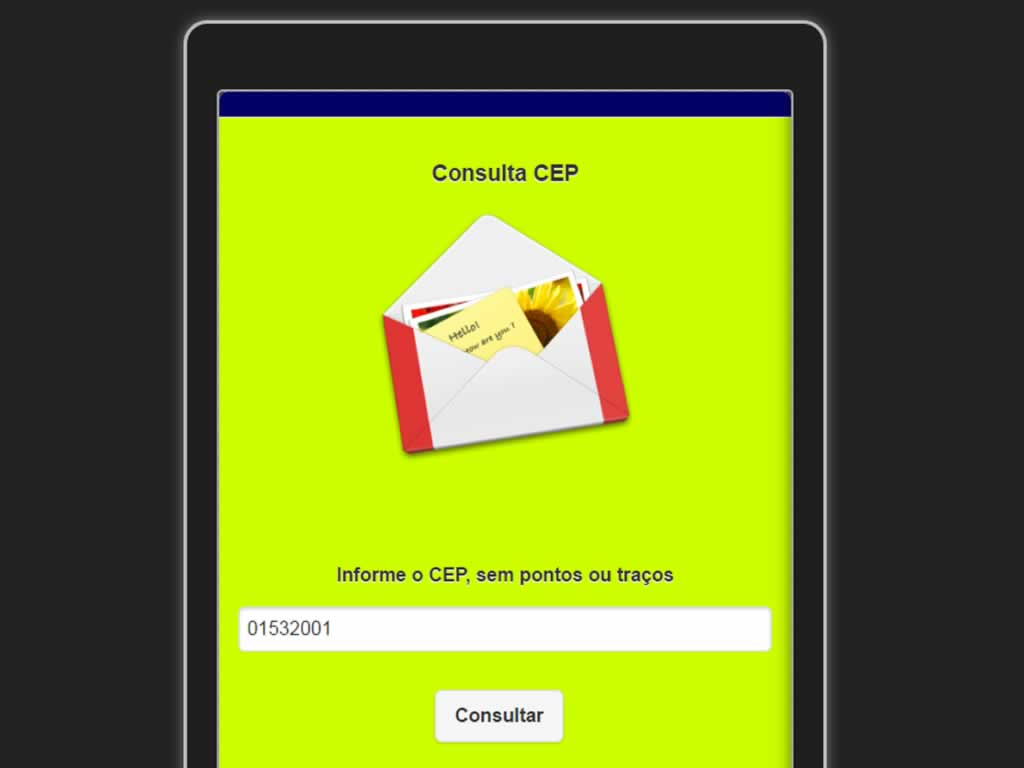
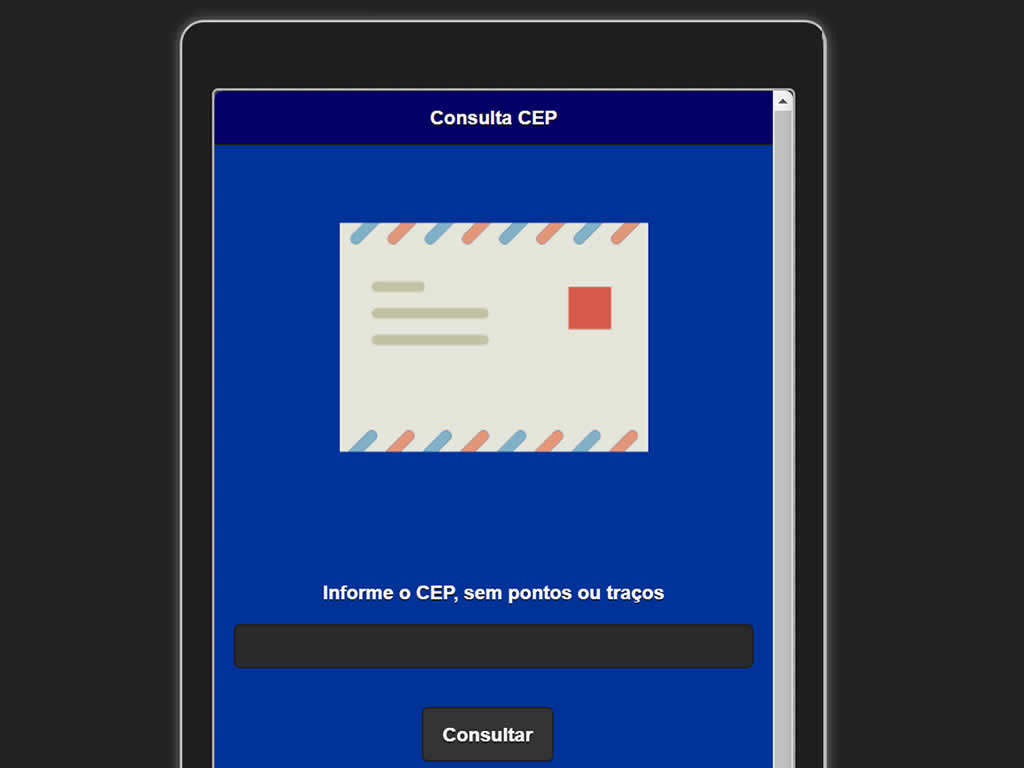
2019-01-27

diff --git a/www/index.html b/www/index.html
@@ -6,7 +6,7 @@
 		<link rel="stylesheet" href="css/jquery.mobile-1.4.2.min.css">
 		<title>Consulta CEP</title>
 		<style type="text/css">
-			.ui-page .ui-content { background-color:#CCFF00; }
+			.ui-page .ui-content { background-color:#003399; }
 			.ui-page .ui-header { background-color:#000066; }
 			.ui-page .ui-footer { background-color:#000066; color:#FFFFFF; }
 			.ui-footer {
@@ -18,15 +18,15 @@
     </head>
     <body>
         <div id="app">
-            <div data-role="page" id="pageone">
-			  <div data-role="header" data-position="fixed"  class="cabecalho">
-				&nbsp;
+            <div data-role="page" id="pageone" data-theme="b">
+			   <div data-role="header" data-position="fixed"  class="cabecalho">
+				<h1>Consulta CEP</h1>
 			  </div>
 
 			  <div data-role="main" id="main" class="ui-content">
 				<div align="center">
 				
-				<p><img src="img/sistema_cep.png" width="50%"></p>
+				<p><img src="img/mail.png" alt="Sistema CEP"></p>
 				<p>&nbsp;</p>
 				<form id="check-contato" data-ajax="false">
 				  <div class="ui-field-contain">
@@ -41,14 +41,13 @@
 			  </div>
 
 			  <div data-role="footer" data-position="fixed"  class="rodape">
-				<h1>Consulta CEP</h1>
 			  </div>
 			</div> 
 			
 			
 
 			
-			<div data-role="page" id="posicao">
+			<div data-role="page" id="posicao" data-theme="b">
 			  <div data-role="header" data-position="fixed" class="cabecalho" id="head">
 				 &nbsp;
 			  </div>
@@ -78,7 +77,7 @@
 		<script src="js/jquery.mobile.toast.min.js"></script>
 		<script src="js/scripts.js"></script>
 		<script type="text/javascript">
-        $(document).ready(onDeviceReady());
+			$(document).ready(onDeviceReady());
 		</script>
     </body>
 </html>
